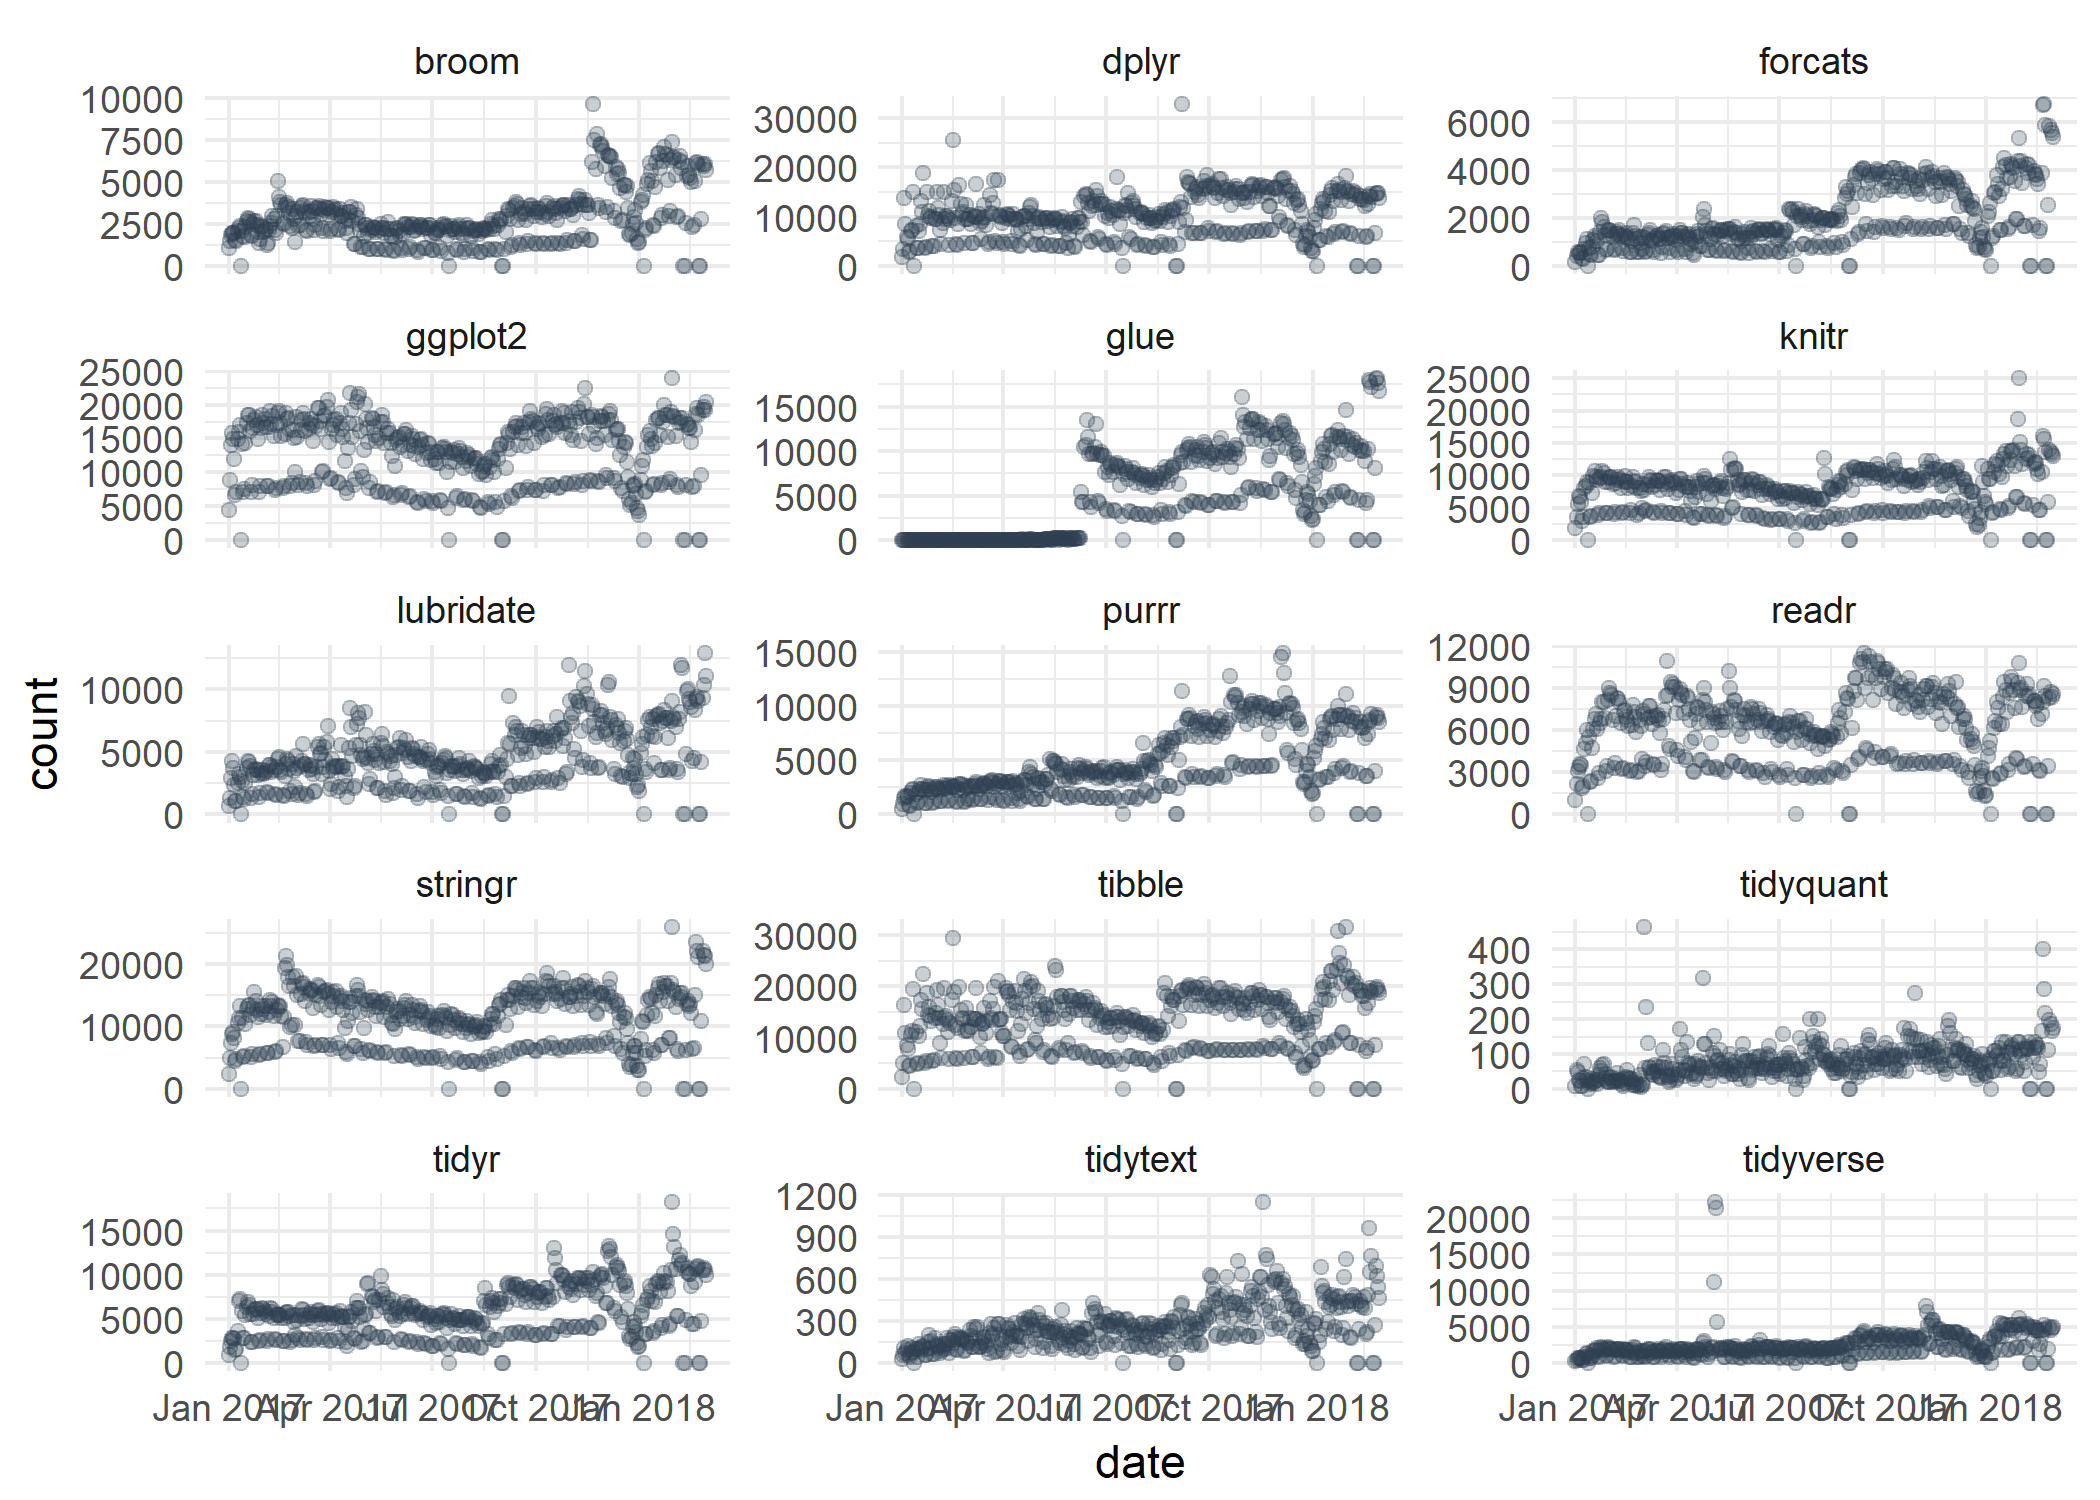
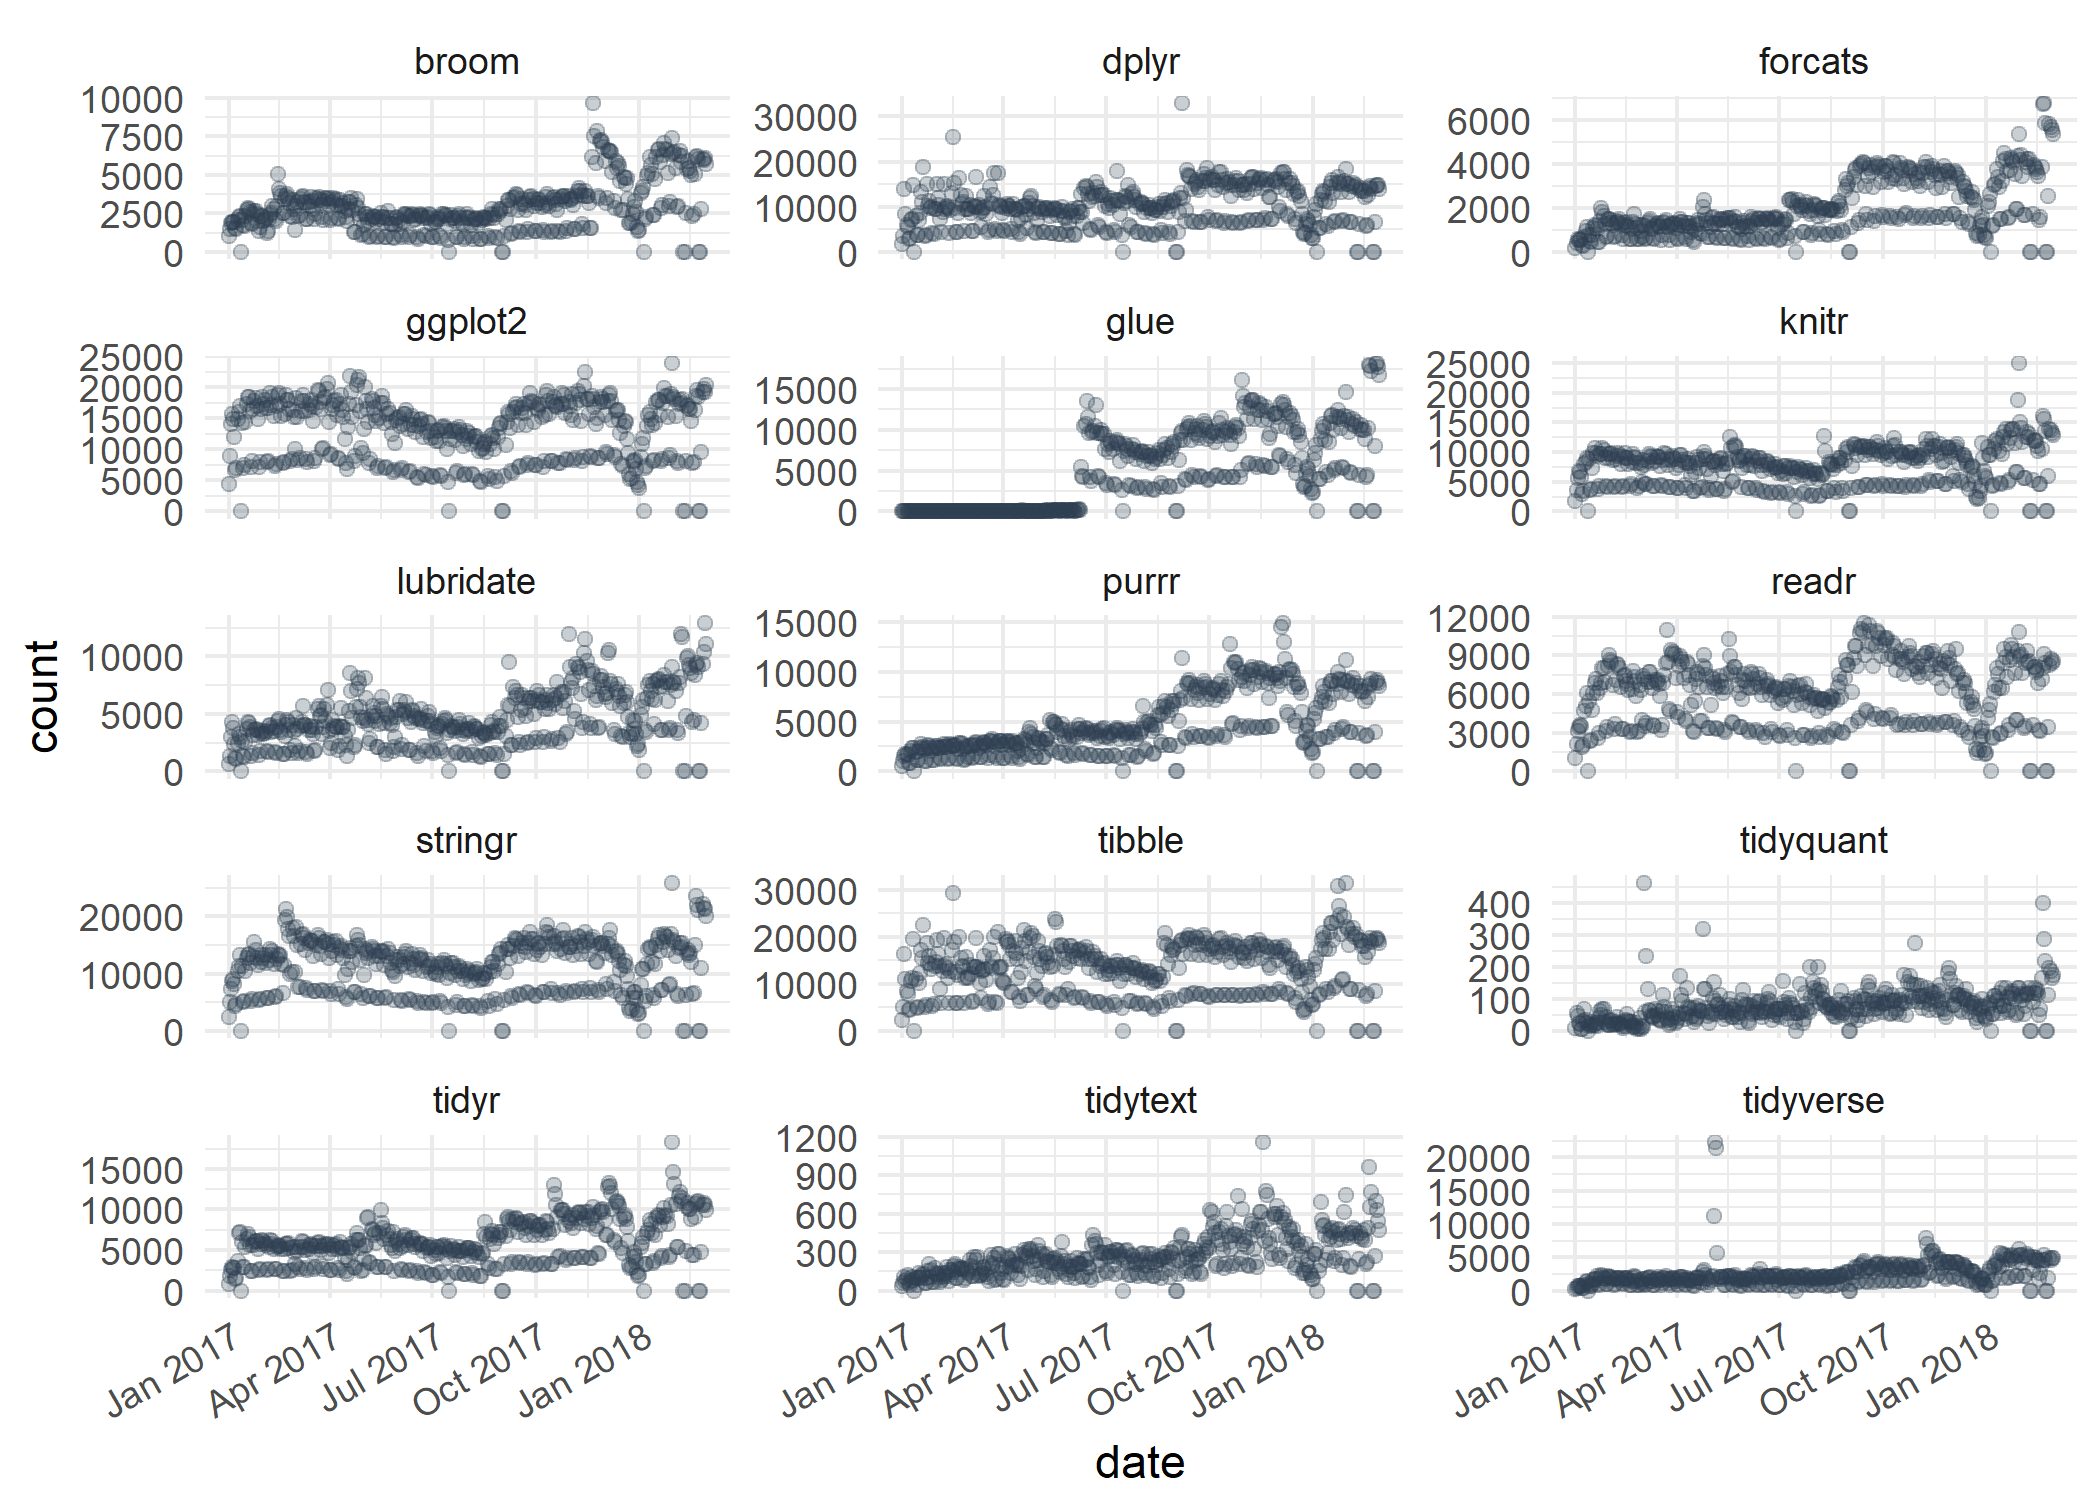
fix x-axis labels in readme

Changed region(s): [[0.0, 0.0613, 0.9905, 0.9507], [0.031, 0.7667, 0.3405, 0.9507], [0.8357, 0.2147, 0.8976, 0.2453]]

diff --git a/README.md b/README.md
@@ -1,5 +1,4 @@
 
-
 <!-- README.md is generated from README.Rmd. Please edit that file -->
 
 # anomalize
@@ -70,7 +69,8 @@ tidyverse_cran_downloads %>%
     ggplot(aes(date, count)) +
     geom_point(color = "#2c3e50", alpha = 0.25) +
     facet_wrap(~ package, scale = "free_y", ncol = 3) +
-    theme_minimal() 
+    theme_minimal() +
+    theme(axis.text.x = element_text(angle = 30, hjust = 1))
 ```
 
 <img src="man/figures/README-unnamed-chunk-2-1.png" width="100%" />
@@ -86,7 +86,8 @@ tidyverse_cran_downloads %>%
     anomalize(remainder, method = "iqr") %>%
     time_recompose() %>%
     plot_anomalies(time_recomposed = TRUE, ncol = 3, alpha_dots = 0.25) +
-    labs(title = "Tidyverse Anomalies", subtitle = "STL + IQR Methods") 
+    labs(title = "Tidyverse Anomalies", subtitle = "STL + IQR Methods") +
+    theme(axis.text.x = element_text(angle = 30, hjust = 1))
 ```
 
 <img src="man/figures/README-unnamed-chunk-3-1.png" width="100%" />
